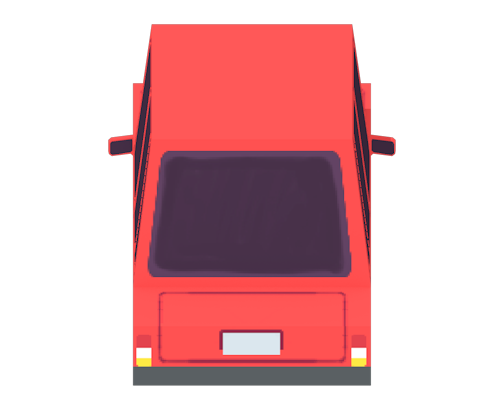
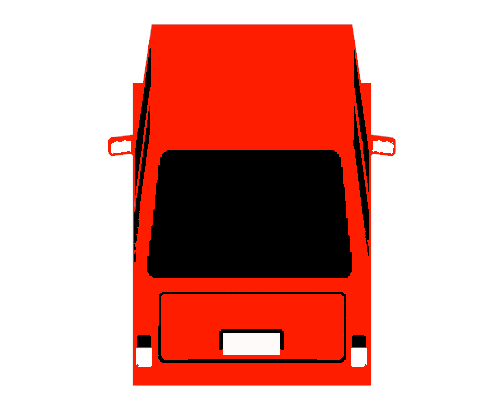
Changes color scheme

diff --git a/source/racer/main.js b/source/racer/main.js
@@ -35,6 +35,7 @@ var keys;
 var isInPortrait;
 var mainScene;
 var pauseScene;
+var score = 0;
 
 var running = true;
 
@@ -205,10 +206,11 @@ class MainScene extends Phaser.Scene
                 }
                 this.camera.update();
                 this.settings.show(time);
-
                 break;
             case STATE_GAMEOVER:
-                console.log("Play game.");
+                this.score = time;
+                this.scene.pause();
+                this.scene.launch('GoalScene');
                 break;
         }
     }
@@ -324,6 +326,8 @@ class GoalScene extends Phaser.Scene
         this.titleSprite.displayWidth = SCREEN_H;
 
         this.starSprite = this.add.sprite(SCREEN_CX, SCREEN_CY + SCREEN_CY/2, 'star');
+        this.settings = new Settings(this);
+        this.settings.show(time, 'Your time: ');
     }
 }
 
@@ -351,7 +355,7 @@ var config = {
         pageAlignHorizontally:true
     },
 
-    scene: [MainScene, PauseScene]
+    scene: [MainScene, PauseScene, GoalScene]
 };
 
 

diff --git a/source/racer/circuit.js b/source/racer/circuit.js
@@ -174,8 +174,8 @@ class Circuit
     createSegment(curve , height) {
      //define colors
         const COLORS = {
-            LIGHT: {road: '0x888888', curb: '0x595959', pavement: '0x808080', grass: '0x429352',},
-            DARK: {road: '0x666666', curb: '0x595959', pavement: '0x888888', grass: '0x397d46'}};
+            LIGHT: {road: '0xffffff', curb: '0x000000', pavement: '0x000000', grass: '0x7a7b82',},
+            DARK: {road: '0x000000', curb: '0x000000', pavement: '0xffffff', grass: '0x333336'}};
 
         //current number of segments
         var n = this.segments.length;

diff --git a/source/racer/settings.js b/source/racer/settings.js
@@ -3,7 +3,7 @@ class Settings
     constructor (scene) {
         this.scene = scene;
 		
-		var font = {font: '32px Arial', fill: '#ff1100', stroke: '#000', strokeThickness: 4};
+		var font = {font: '48px Arial', fill: '#ff1100', stroke: '#000', strokeThickness: 10};
 		this.timetxt = scene.add.text(0 , 0 , '', font);
 		this.show();
 	}
@@ -11,8 +11,8 @@ class Settings
 	/**
 	* Shows all settings.
 	*/	
-	show(time){
+	show(time, txt=''){
 		var gameRuntime = time;
-		this.timetxt.setText(Math.round(gameRuntime));
+		this.timetxt.setText(txt + Math.round(gameRuntime));
 	}
 }
